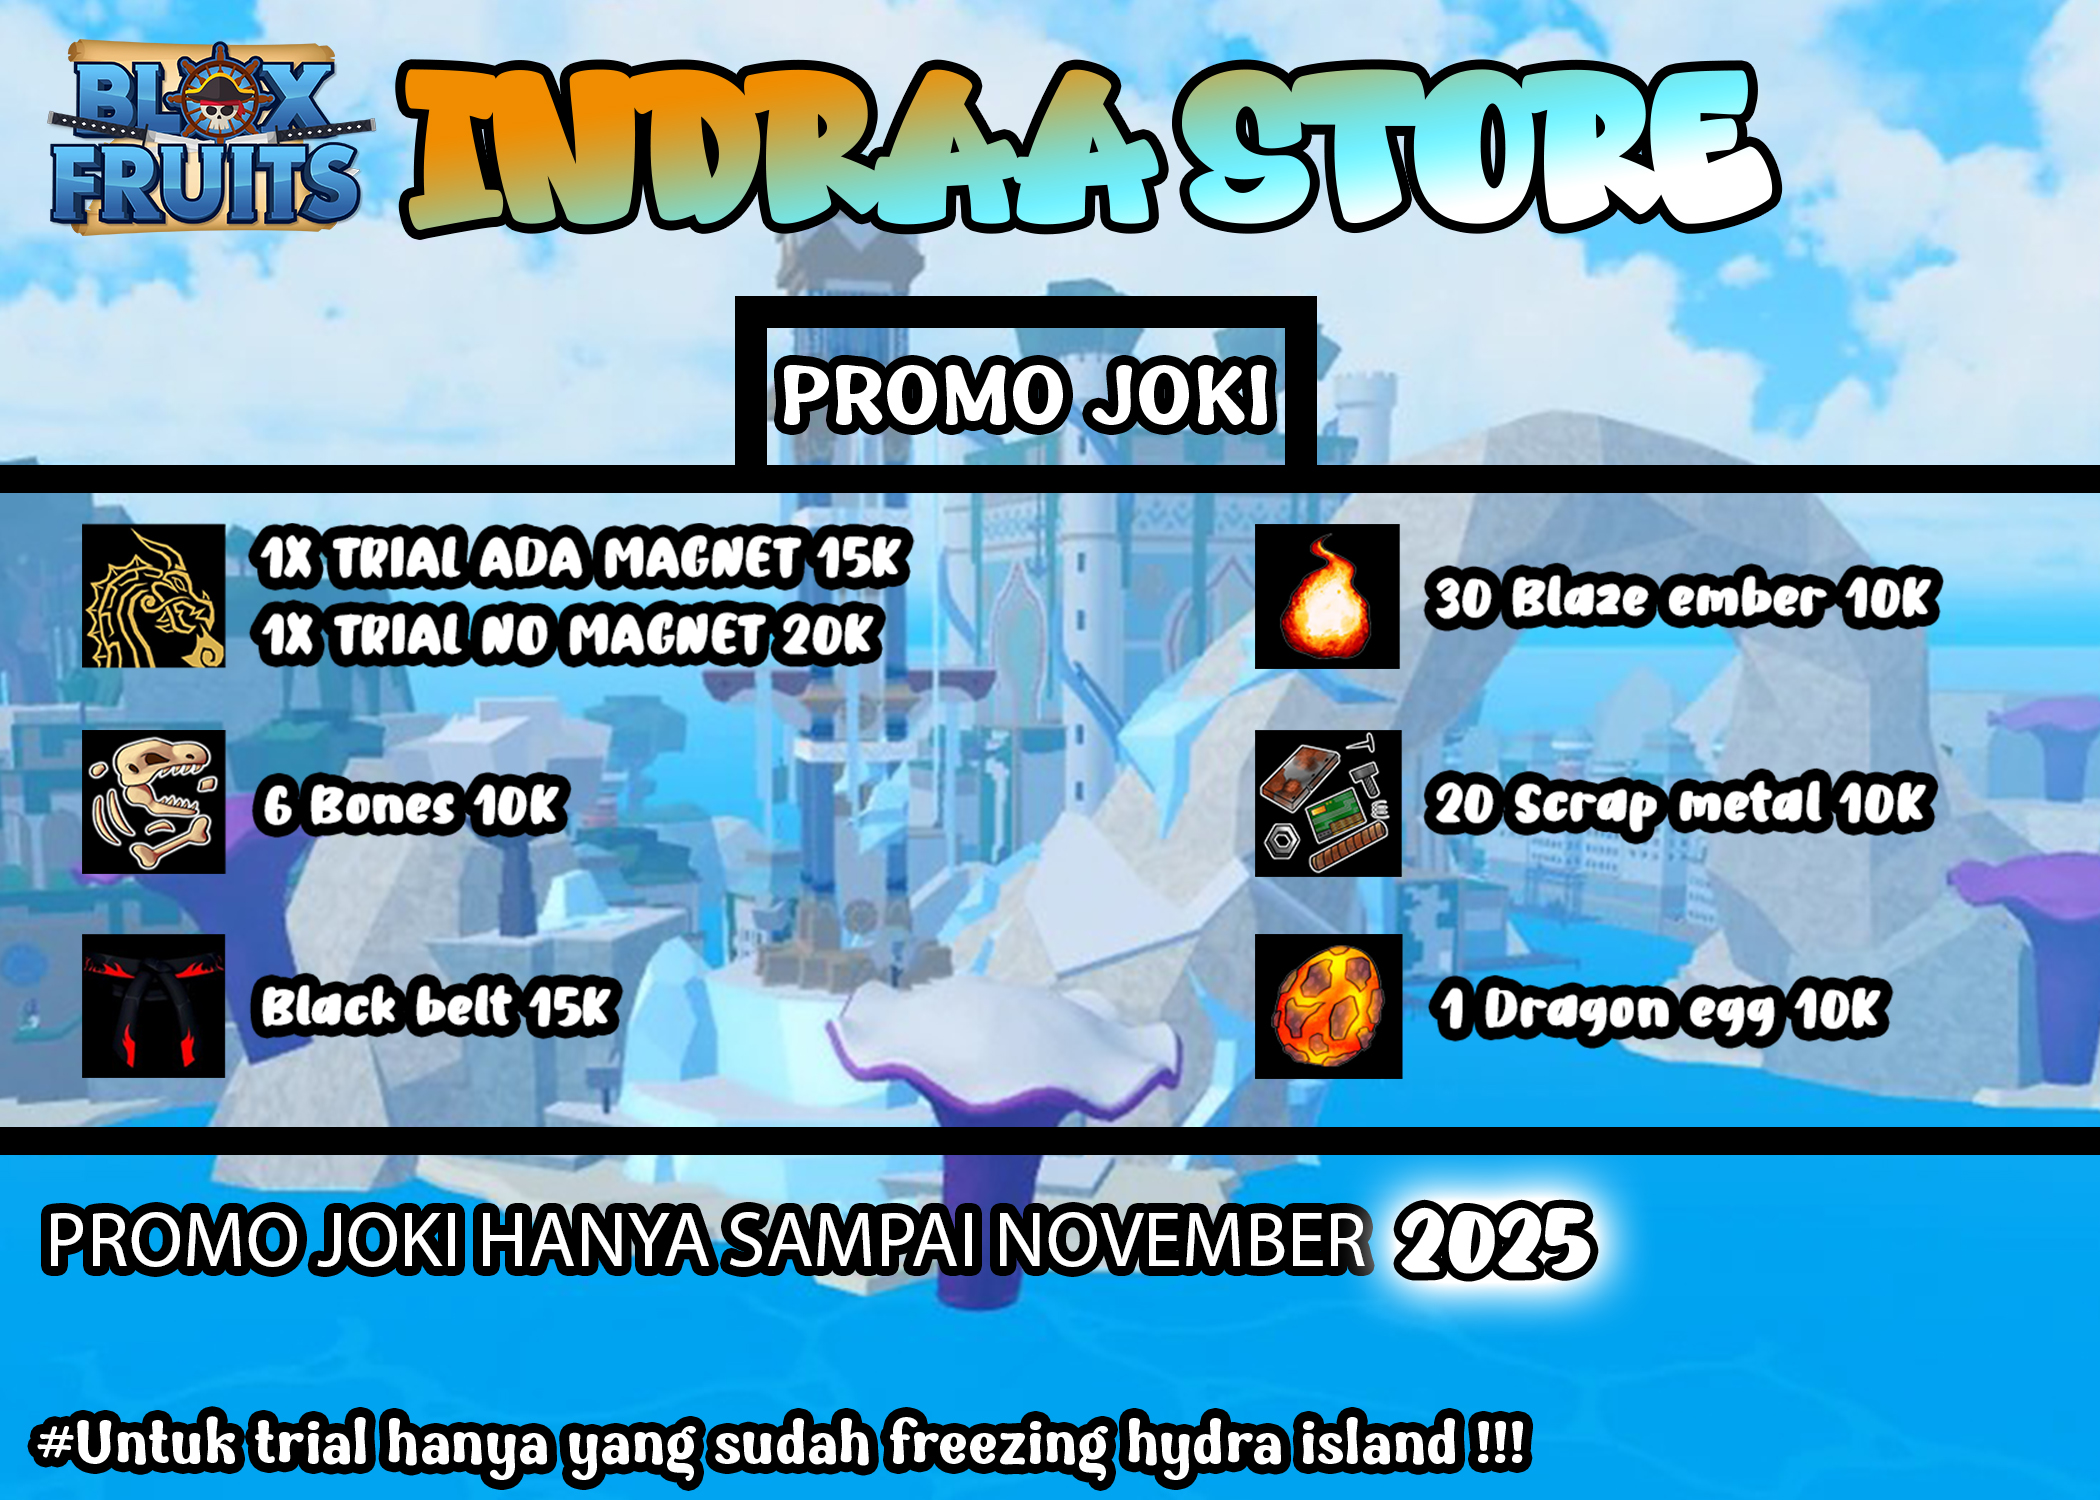
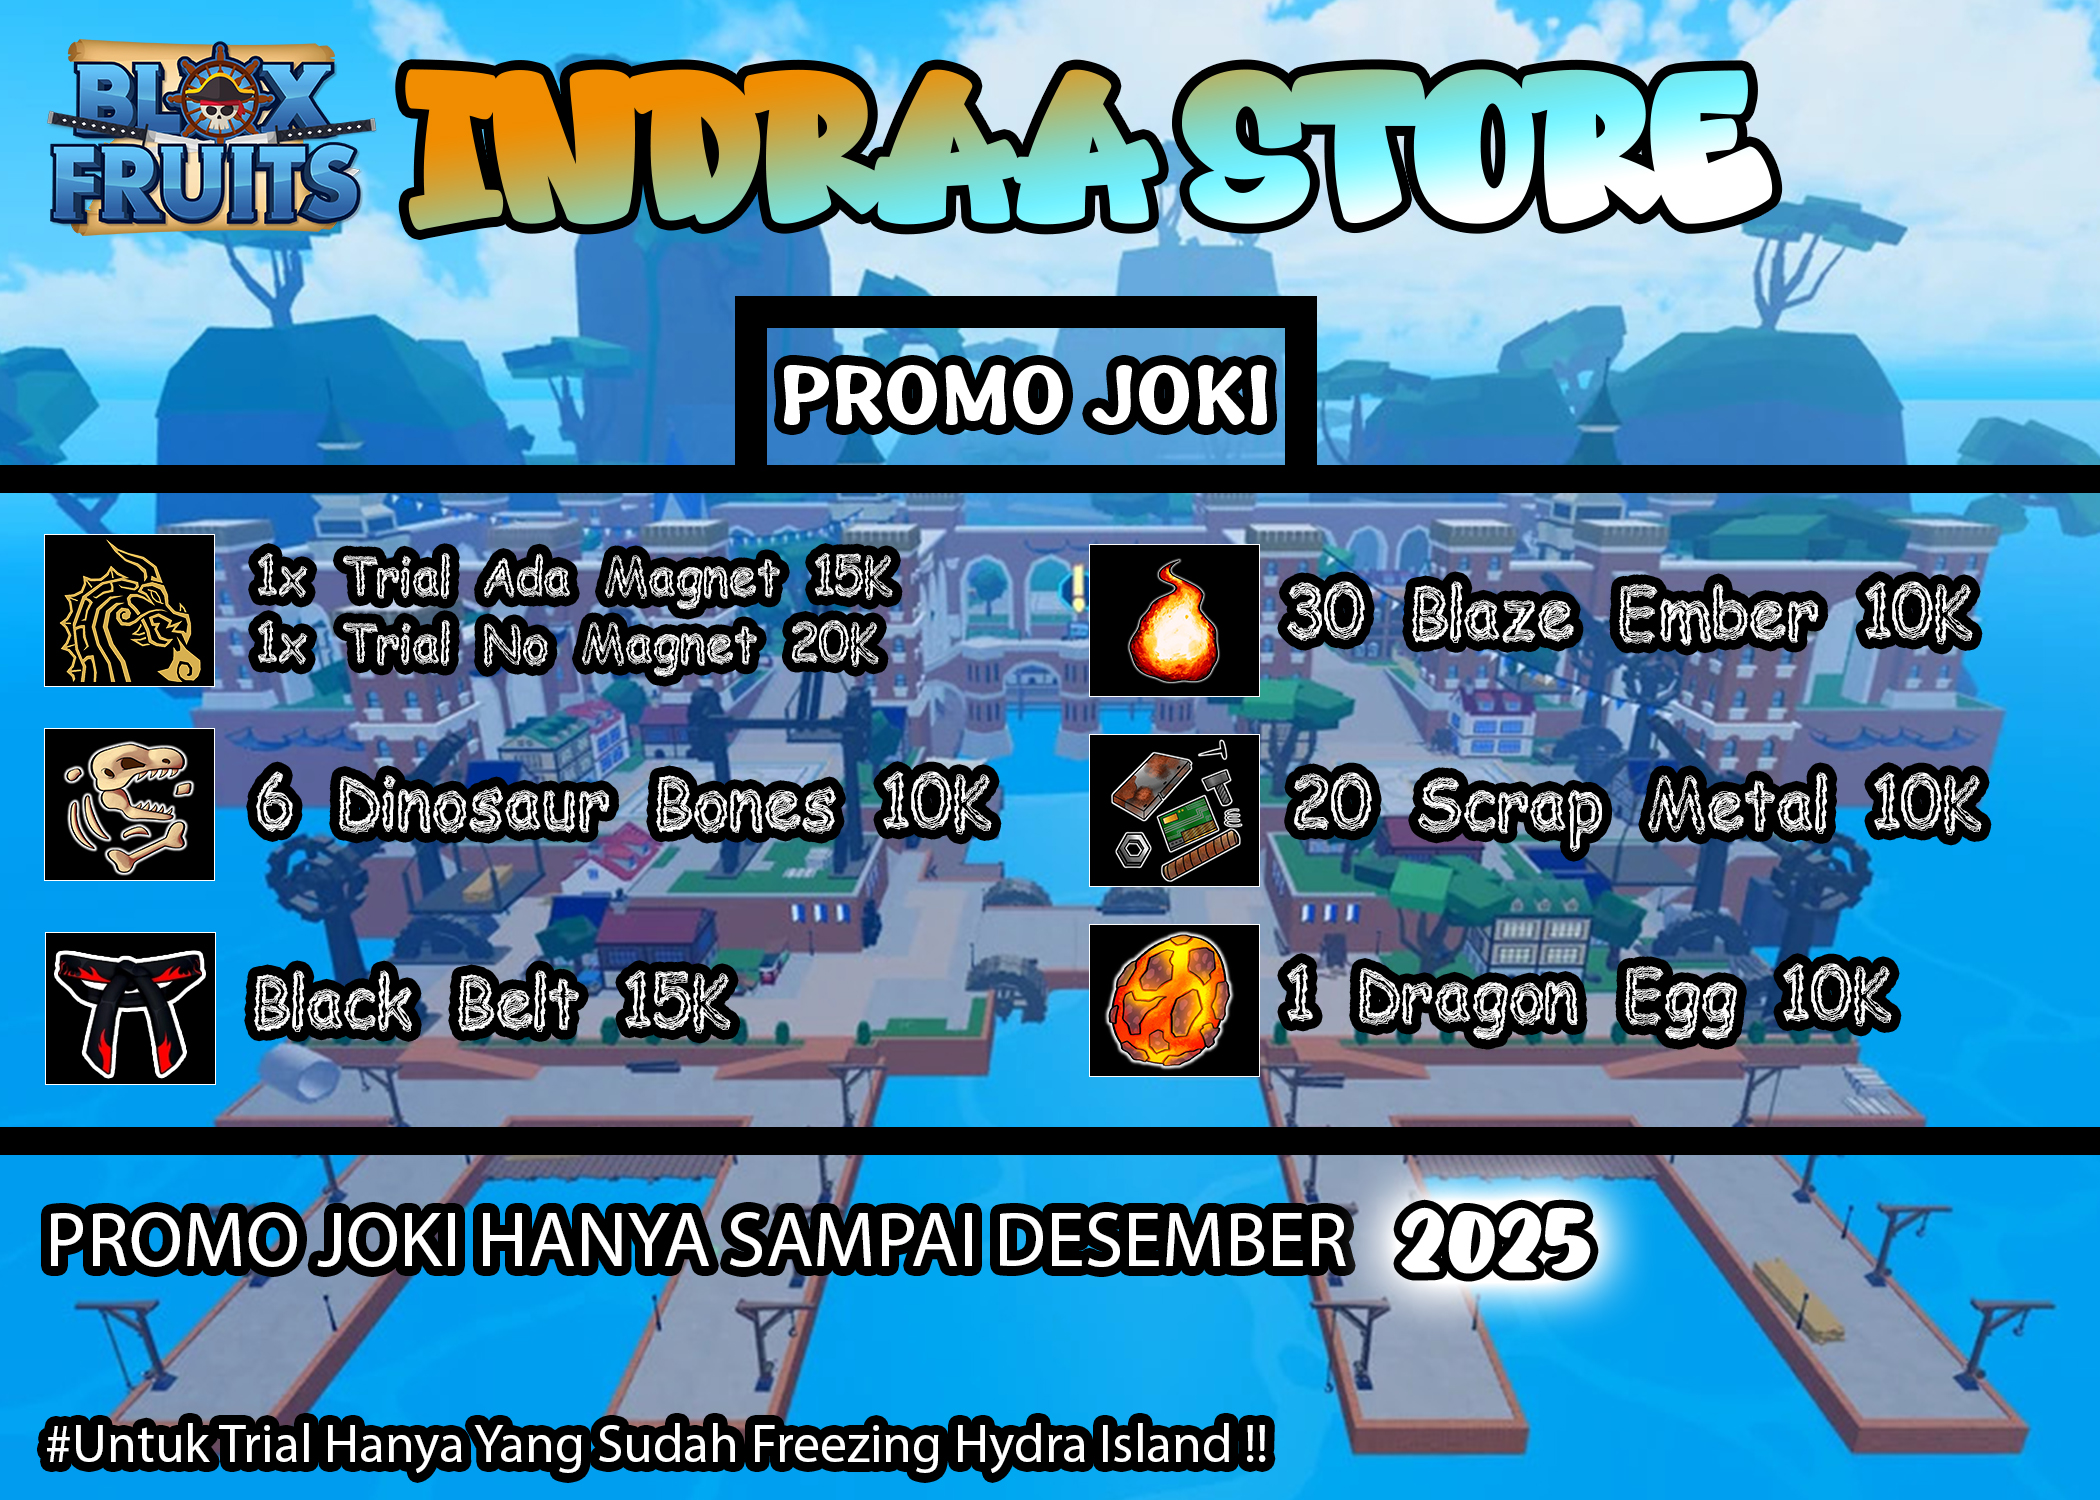
Add files via upload

diff --git a/Script.js b/Script.js
@@ -802,9 +802,9 @@
             { id: 121, name: "30 Blaze Ember", price:10000, category: "Promo"},
             { id: 122, name: "1X Trial Draco", price:15000, category: "Promo", note: "(Ada Magnet)"},
             { id: 123, name: "1X Trial Draco", price:20000, category: "Promo", note: "(Tanpa Magnet)"},
-            { id: 124, name: "Bluegear", price:8000, category: "Promo"},
-            { id: 125, name: "Mirror Fractal", price:15000, category: "Promo"},
-            { id: 126, name: "Valkyrie Helm", price:10000, category: "Promo"},
+            { id: 124, name: "50K Fragment", price:25000, category: "Promo", note: "(Khusus SEA 3)"},
+            { id: 125, name: "Leviathan Heart", price:20000, category: "Promo"},
+            { id: 126, name: "Shark Anchor", price:30000, category: "Promo"},
             { id: 127, name: "Full Gear T5", price:30000, category: "Promo"},
             { id: 128, name: "Full Gear T10", price:40000, category: "Promo"},
             { id: 129, name: "1X Trial", price: 5000, category: "Promo"},
@@ -852,12 +852,12 @@
 
         // --- DATA STOK BUAH BLOX FRUIT --- 
         const fruitStocks = [
-            { name: "Kitsune", stock: 1, price: 45000 },
+            { name: "Kitsune", stock: 0, price: 45000 },
             { name: "Dragon", stock: 0, price: 130000 },
             { name: "Yeti", stock: 3, price: 30000 },
             { name: "Gas", stock: 2, price: 15000 },
             { name: "Leopard", stock: 0, price: 30000 },
-            { name: "Dough", stock: 2, price: 10000 },
+            { name: "Dough", stock: 1, price: 10000 },
             { name: "T-Rex", stock: 3, price: 7000 },
             { name: "Mammoth", stock: 4, price: 5000 },
             { name: "Spirit", stock: 4, price: 5000 },
@@ -1532,6 +1532,3 @@ window.addEventListener('load', () => {
         <script src="secure-devtools-blocker.js"></script>
 </body>
 </html>
-
-
-

diff --git a/index.html b/index.html
@@ -802,9 +802,9 @@
             { id: 121, name: "30 Blaze Ember", price:10000, category: "Promo"},
             { id: 122, name: "1X Trial Draco", price:15000, category: "Promo", note: "(Ada Magnet)"},
             { id: 123, name: "1X Trial Draco", price:20000, category: "Promo", note: "(Tanpa Magnet)"},
-            { id: 124, name: "Bluegear", price:8000, category: "Promo"},
-            { id: 125, name: "Mirror Fractal", price:15000, category: "Promo"},
-            { id: 126, name: "Valkyrie Helm", price:10000, category: "Promo"},
+            { id: 124, name: "50K Fragment", price:25000, category: "Promo", note: "(Khusus SEA 3)"},
+            { id: 125, name: "Leviathan Heart", price:20000, category: "Promo"},
+            { id: 126, name: "Shark Anchor", price:30000, category: "Promo"},
             { id: 127, name: "Full Gear T5", price:30000, category: "Promo"},
             { id: 128, name: "Full Gear T10", price:40000, category: "Promo"},
             { id: 129, name: "1X Trial", price: 5000, category: "Promo"},
@@ -852,12 +852,12 @@
 
         // --- DATA STOK BUAH BLOX FRUIT --- 
         const fruitStocks = [
-            { name: "Kitsune", stock: 1, price: 45000 },
+            { name: "Kitsune", stock: 0, price: 45000 },
             { name: "Dragon", stock: 0, price: 130000 },
             { name: "Yeti", stock: 3, price: 30000 },
             { name: "Gas", stock: 2, price: 15000 },
             { name: "Leopard", stock: 0, price: 30000 },
-            { name: "Dough", stock: 2, price: 10000 },
+            { name: "Dough", stock: 1, price: 10000 },
             { name: "T-Rex", stock: 3, price: 7000 },
             { name: "Mammoth", stock: 4, price: 5000 },
             { name: "Spirit", stock: 4, price: 5000 },
@@ -1532,6 +1532,3 @@ window.addEventListener('load', () => {
         <script src="secure-devtools-blocker.js"></script>
 </body>
 </html>
-
-
-
